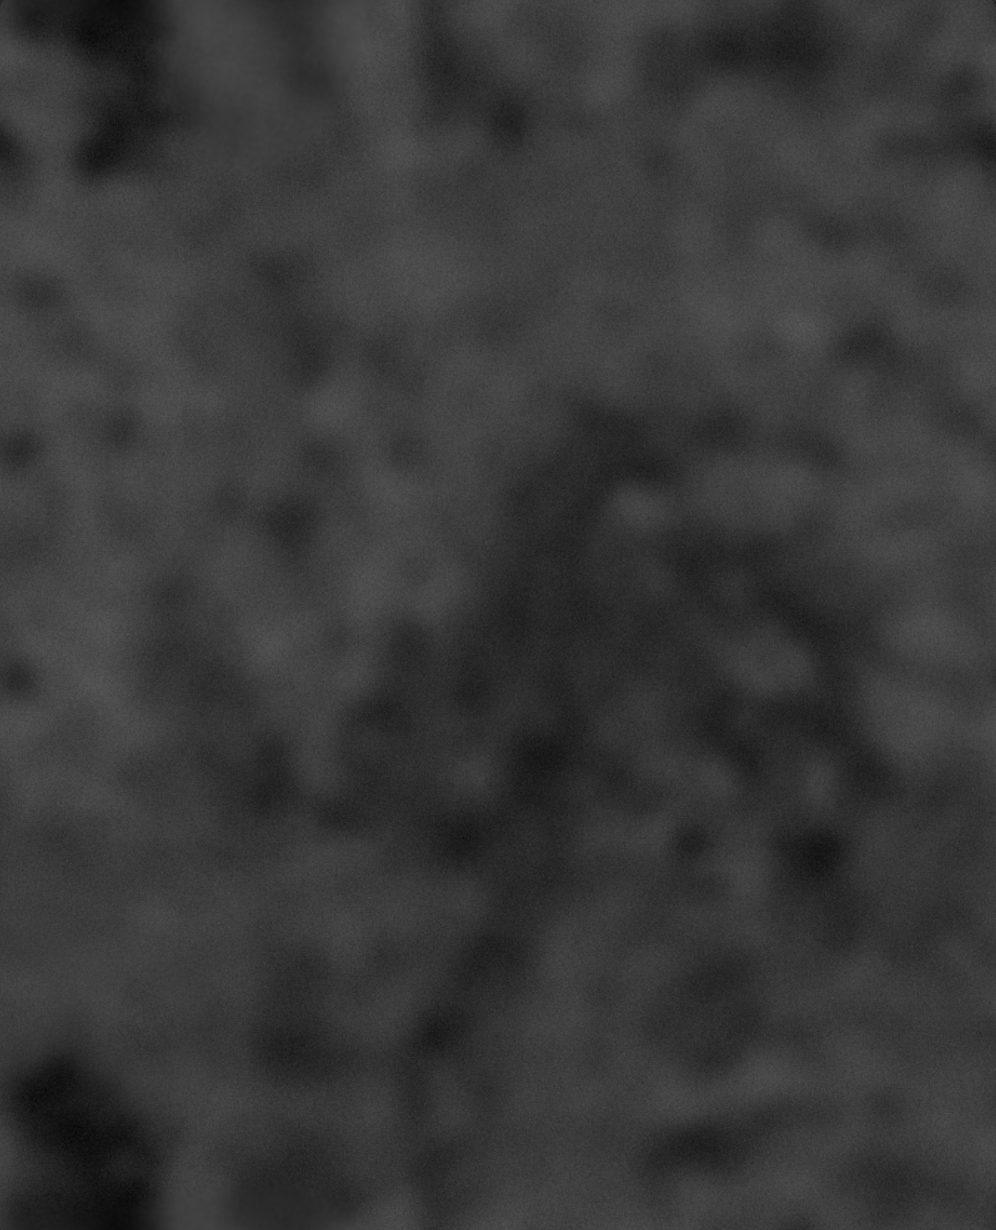
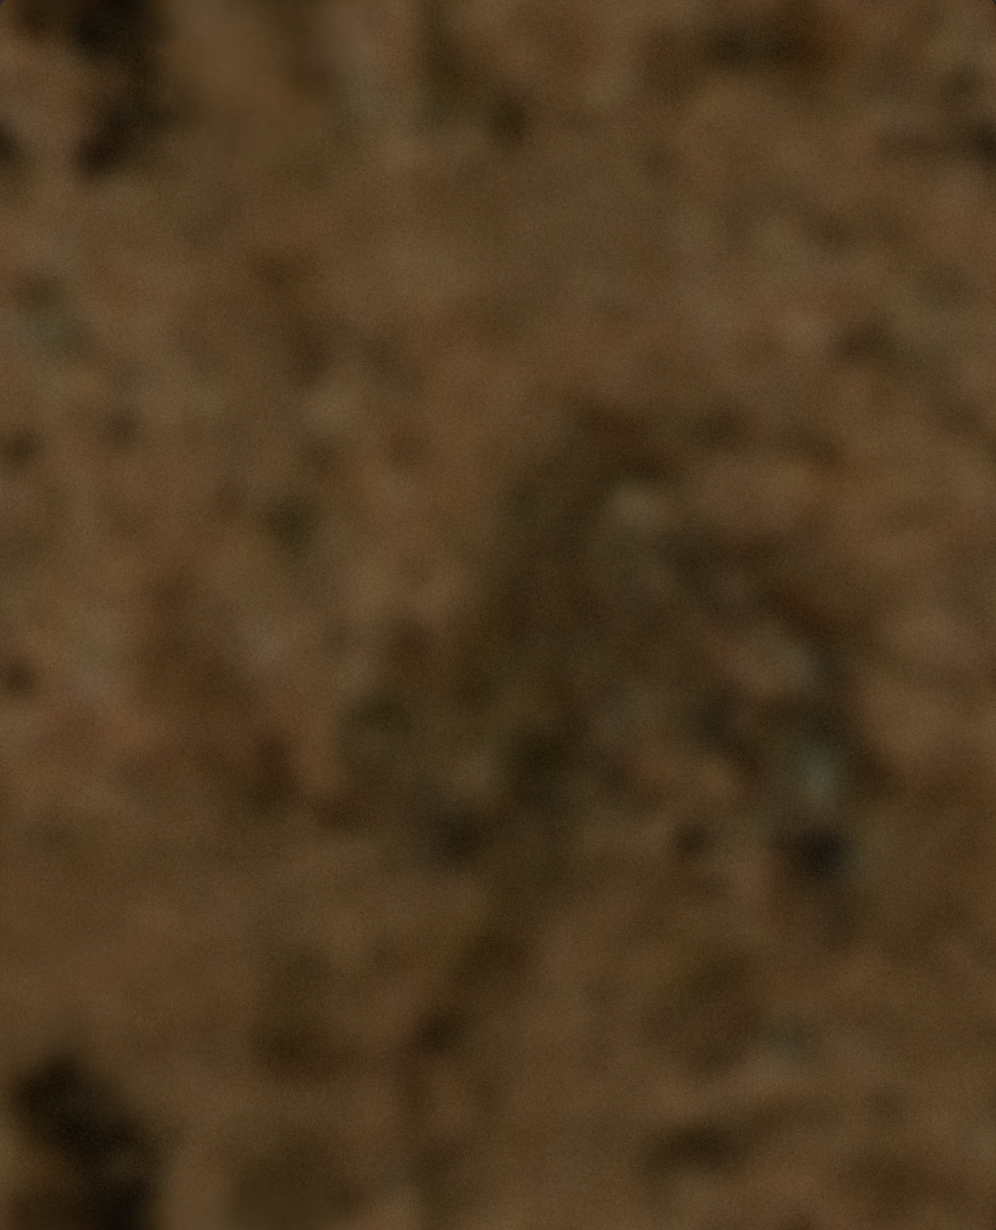
oh

diff --git a/crust.css b/crust.css
@@ -2,7 +2,7 @@
             background-color: #352715;
             margin: 0 !important;
             overscroll-behavior: none;
-            background-image: url('crustfix.jpg');
+            background-image: url('crust.jpg');
             background-size: 600px;
             background-repeat: repeat;
             cursor: nw-resize !important;
